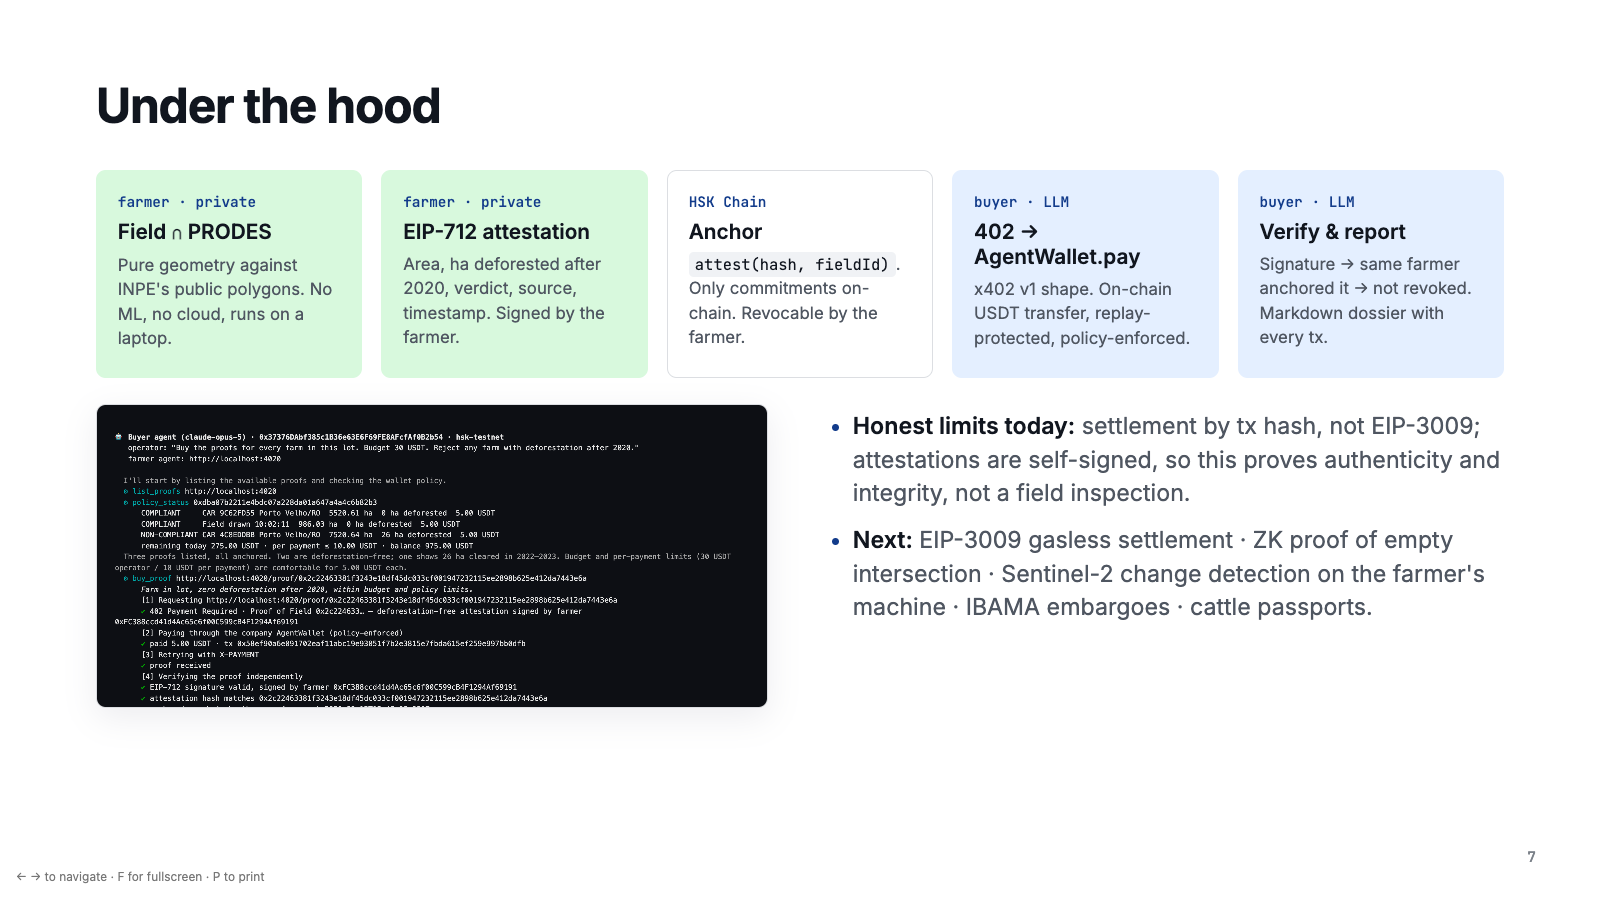
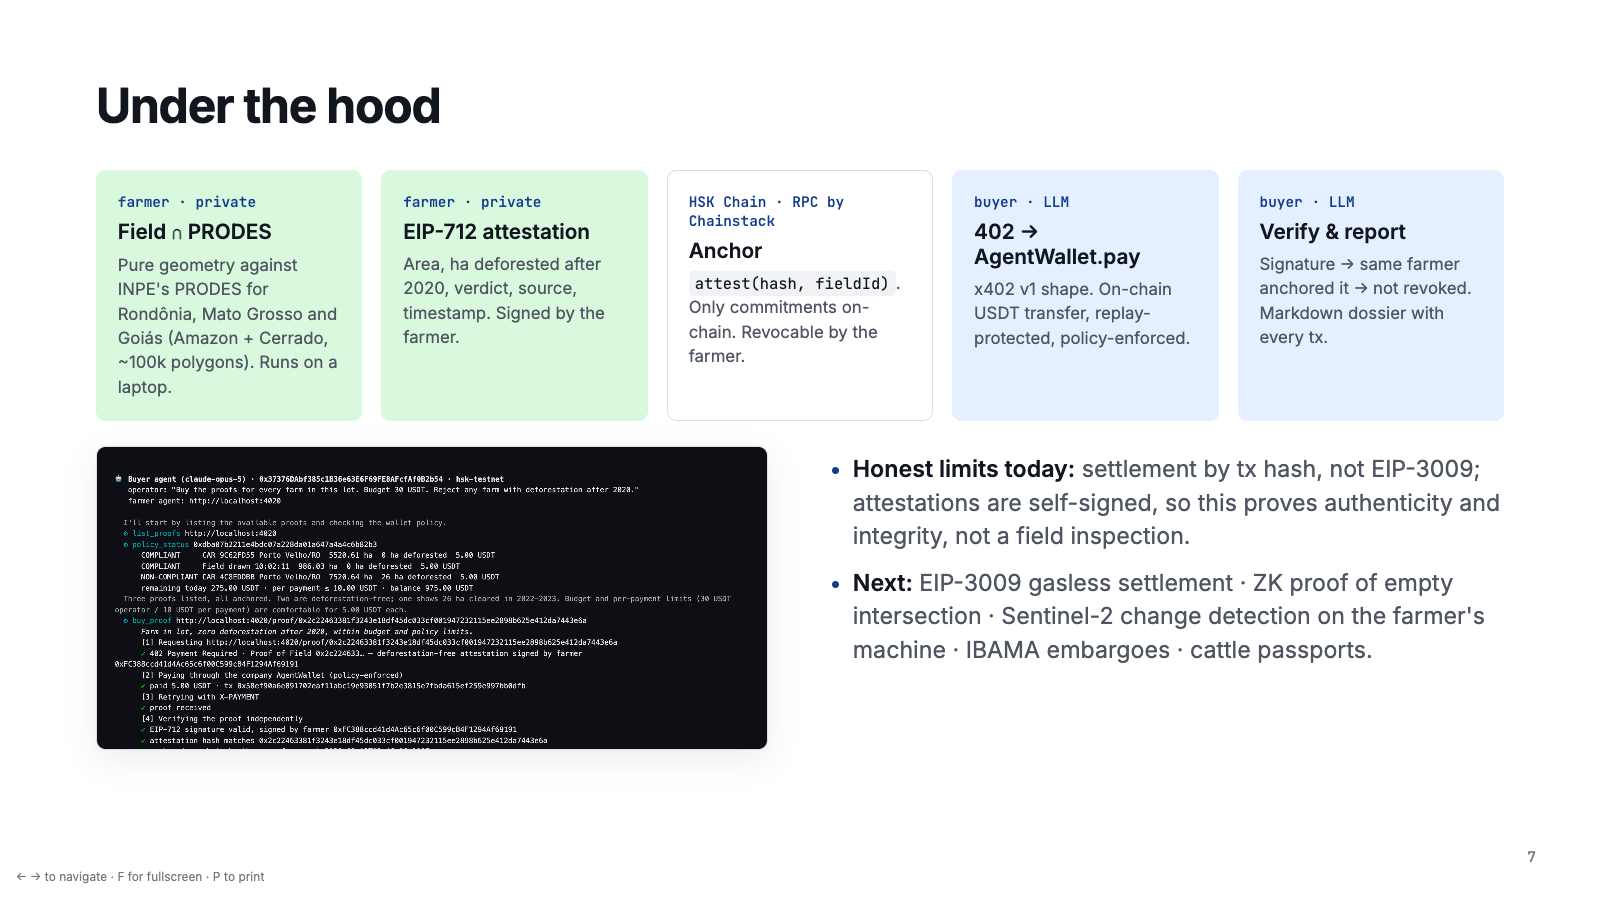
Coverage fast path; wording

Changed region(s): [[0.0625, 0.3111, 0.5, 0.84], [0.5312, 0.4044, 0.9375, 0.7467], [0.4062, 0.2178, 0.5625, 0.4044]]

diff --git a/docs/slides/index.html b/docs/slides/index.html
@@ -121,7 +121,7 @@
   <div class="tl">
     <div class="lbl ok">Now</div>
     <div class="chain">
-      <div class="node ok"><i>farmer's machine</i><b>Farmer agent checks</b><p>Intersects the field with INPE/PRODES, official data. ~100 ms. Map never leaves the farm.</p></div>
+      <div class="node ok"><i>farmer's machine</i><b>Farmer agent checks</b><p>Intersects the field with INPE/PRODES, official data, in seconds. Map never leaves the farm.</p></div>
       <div class="node ok"><i>farmer's machine</i><b>Signs &amp; anchors</b><p>EIP-712 attestation. Only its hash goes on-chain. Proof is now for sale at a price the farmer sets.</p></div>
       <div class="node ai"><i>trader's machine</i><b>AI buyer agent decides</b><p>One sentence from the operator. Lists proofs, checks its budget, buys what fits the rule, refuses what doesn't.</p></div>
       <div class="node ai"><i>trader's machine</i><b>Pays, verifies, reports</b><p>HTTP 402 → USDT → proof. Verifies signature + registry itself. Writes the dossier.</p></div>

diff --git a/packages/core/src/prodes.ts b/packages/core/src/prodes.ts
@@ -32,6 +32,8 @@ export function coverageOf(field: Feature<Polygon | MultiPolygon>, idx: ProdesIn
     const r = idx.regions[i];
     const rb = turf.bbox(r as any);
     if (rb[0] > bbox[2] || rb[2] < bbox[0] || rb[1] > bbox[3] || rb[3] < bbox[1]) continue;
+    // Fast path: the whole field sits inside this region → covered, done.
+    try { if (turf.booleanWithin(remaining as any, r as any)) { hits.push(idx.regionNames[i]); remaining = null; break; } } catch { /* fall through */ }
     let inter: Feature | null = null;
     try { inter = turf.intersect(turf.featureCollection([remaining as any, r as any])); } catch { continue; }
     if (!inter) continue;

diff --git a/docs/PITCH.md b/docs/PITCH.md
@@ -20,7 +20,7 @@
 
 ## 2 minute demo (happy path only)
 
-**0:00 [Console]** Click **…9C62**. Green verdict appears. → "This is a real 5,500-hectare property from Brazil's rural registry, checked against INPE's official deforestation map. Clean."
+**0:00 [Console]** Click **…9C62**. Green verdict appears. → "This is a real 5,500-hectare property from Brazil's rural registry, checked against INPE's official deforestation map for Rondônia, Mato Grosso and Goiás. Clean."
 
 **0:10 [Console]** Click **Sign attestation & anchor on-chain**. Wait for the hash and tx (~5 s). → "Signed by the farmer's key. Only the hash goes to HashKey Chain. The proof is now for sale."
 
